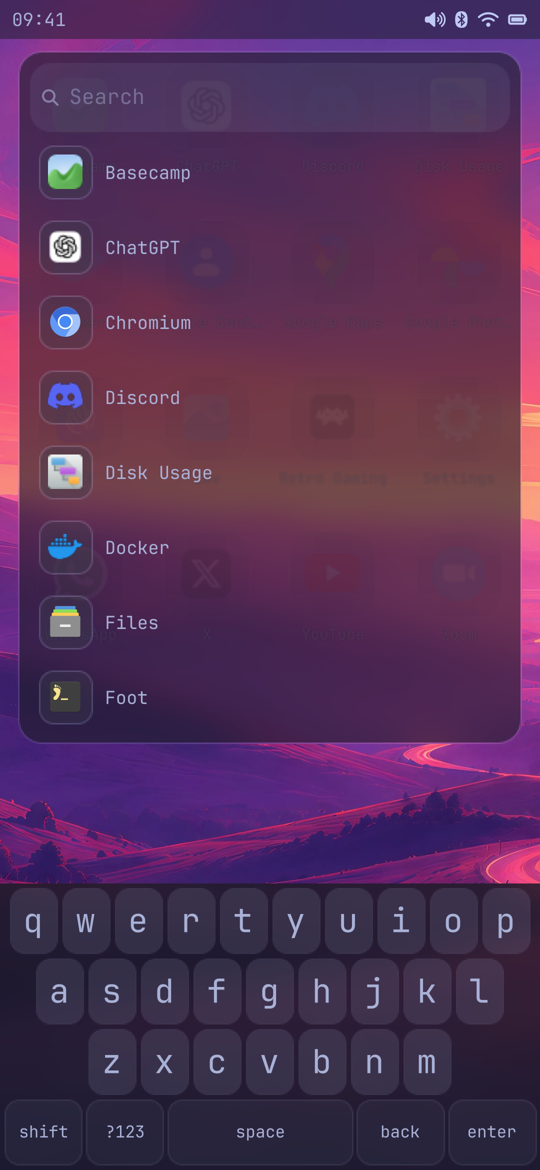
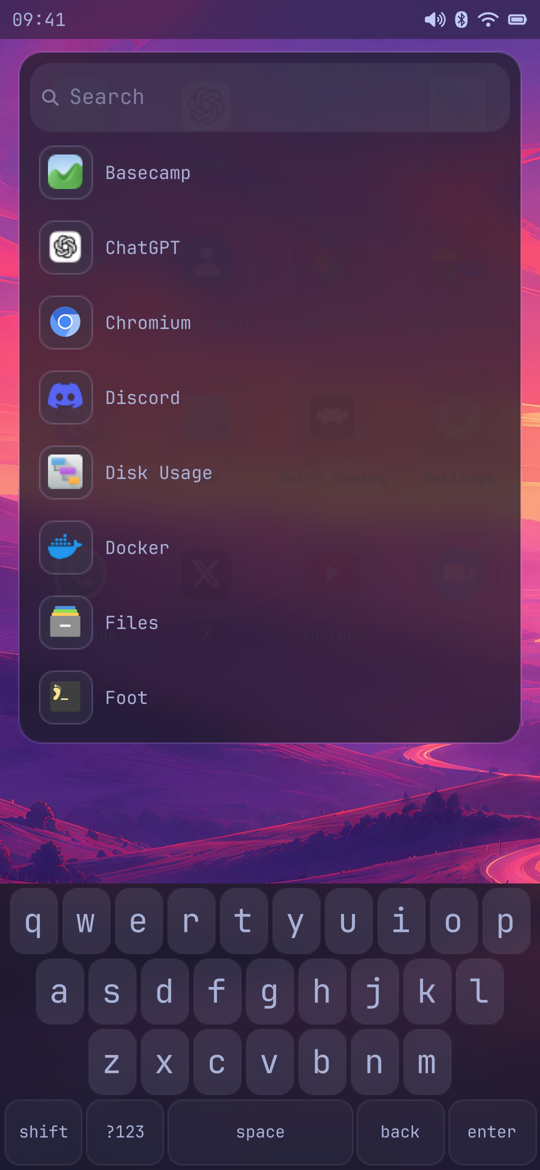
Search: exclusive keyboard focus so injected keys reach the field; closes when a window opens; tap the field to bring the keyboard back; results capped above the keyboard; clearer on light themes; docs
Claude-Session: https://claude.ai/code/session_01J9uck1ZWaLdYKHYACHGGK2

Changed region(s): [[0.0296, 0.1538, 0.9778, 0.5231]]

diff --git a/agent-work/plugins/phone-home/Home.qml b/agent-work/plugins/phone-home/Home.qml
@@ -205,7 +205,12 @@ Item {
   }
 
   function launch(app) {
-    if (!appLibrary || !app || launching) return
+    if (!appLibrary || !app) return
+    // A tap during the cooldown still ends the search it came from.
+    if (launching) {
+      closeSearch()
+      return
+    }
     launching = true
     launchCooldown.restart()
     appLibrary.launch(app.appId, app.label)
@@ -372,14 +377,23 @@ Item {
   // Swipe down on the home screen, as on iOS: a field at the top, the on-screen
   // keyboard up, and apps matching as you type. The keyboard is another plugin,
   // which this one may not summon through the host -- only the bar may -- but
-  // the shell's IPC answers any process, so it goes that way.
+  // the shell's IPC (omarchy-shell) is not scoped per plugin, so it goes that
+  // way.
   property bool searching: false
   property string query: ""
-  readonly property int searchResultLimit: 8
+  // As many results as fit above the on-screen keyboard, up to eight. The
+  // keyboard's height is phone-keyboard's own sum (four 44px rows and five
+  // gaps); it is another plugin, so it is restated here and must follow it.
+  readonly property int keyboardHeight: Style.space(44) * 4 + Style.spacing.xs * 5
+  readonly property int searchResultLimit: Math.max(1, Math.min(8, Math.floor(
+    (surfaceHeight - keyboardHeight - (barAtBottom ? barSpace : 0)
+      - searchSheet.anchors.topMargin - Style.spacing.lg * 3 - searchSheet.rowHeight)
+    / (searchSheet.rowHeight + Style.spacing.sm))))
   readonly property int searchPullDistance: Style.space(56)
 
-  // The library's own search and ranking, the one upstream's menu uses; an
-  // empty query lists apps in its usual order, as iOS's suggestions do.
+  // The library's own fuzzy search and ranking (AppSearch.js), the same call the
+  // grid makes with an empty query; empty, it lists apps alphabetically, as the
+  // grid does.
   readonly property var results: {
     if (!searching || !appLibrary) return []
     var rows = appLibrary.sortedEntries(query)
@@ -392,11 +406,25 @@ Item {
     return out
   }
 
+  // A window opening over the home screen -- from anywhere, not just a result
+  // tapped here -- ends the search: the keyboard and the field's hold on the
+  // keys belong to what is now in front.
+  Connections {
+    target: ToplevelManager
+    function onActiveToplevelChanged() {
+      if (ToplevelManager.activeToplevel) root.closeSearch()
+    }
+  }
+
+  function summonKeyboard() {
+    Quickshell.execDetached(["omarchy-shell", "shell", "summon", "dev.omarchyphone.keyboard"])
+  }
+
   function openSearch() {
     if (searching) return
     query = ""
     searching = true
-    Quickshell.execDetached(["omarchy-shell", "shell", "summon", "dev.omarchyphone.keyboard"])
+    summonKeyboard()
   }
 
   function closeSearch() {
@@ -416,8 +444,10 @@ Item {
     WlrLayershell.layer: WlrLayer.Bottom
     // Keyboard focus only while searching, so the keys the on-screen keyboard
     // injects land in the search field; the rest of the time the home screen
-    // must never take keys from whatever is focused.
-    WlrLayershell.keyboardFocus: root.searching ? WlrKeyboardFocus.OnDemand : WlrKeyboardFocus.None
+    // must never take keys from whatever is focused. Exclusive, not OnDemand:
+    // Hyprland hands focus over at once only on a switch to Exclusive, and
+    // OnDemand would wait for a tap that the swipe opening search was not.
+    WlrLayershell.keyboardFocus: root.searching ? WlrKeyboardFocus.Exclusive : WlrKeyboardFocus.None
 
     // Ignore rather than reserve: this is the backdrop windows tile over, and
     // it must neither push them aside nor be pushed by the bar. The bar's strip
@@ -607,7 +637,7 @@ Item {
       width: Math.min(parent.width - root.pagePadding * 2, Style.space(480))
       height: searchColumn.implicitHeight + Style.spacing.lg * 2
       radius: root.tileRadius
-      color: Util.alpha(Color.background, 0.6)
+      color: Util.alpha(Color.background, 0.72)
       border.width: Math.max(1, Style.space(1))
       border.color: Util.alpha(Color.foreground, 0.18)
 
@@ -653,6 +683,15 @@ Item {
             font.pixelSize: Style.font.title
             clip: true
             onTextChanged: root.query = text
+
+            // The keyboard can be put away from its own bar toggle; a tap on
+            // the field brings it back, as on iOS.
+            TapHandler {
+              onTapped: {
+                searchInput.forceActiveFocus()
+                root.summonKeyboard()
+              }
+            }
             // Return opens the first match, as a search field's go key does.
             onAccepted: if (root.results.length > 0) root.launch(root.results[0])
 
@@ -661,7 +700,7 @@ Item {
               verticalAlignment: Text.AlignVCenter
               visible: searchInput.text.length === 0
               text: "Search"
-              color: Util.alpha(Color.foreground, 0.45)
+              color: Util.alpha(Color.foreground, 0.6)
               font: searchInput.font
             }
           }

diff --git a/agent-work/tools/preview/stubs/Quickshell/Wayland/ToplevelManager.qml b/agent-work/tools/preview/stubs/Quickshell/Wayland/ToplevelManager.qml
@@ -1,0 +1,4 @@
+pragma Singleton
+import QtQuick
+// No windows are ever active in the preview.
+QtObject { property var activeToplevel: null }

diff --git a/agent-work/README.md b/agent-work/README.md
@@ -16,7 +16,7 @@ current Samsung.
 ## The look
 
 iOS's layout -- pages of apps, a dock, page dots, a control centre that drops
-from the top -- with every app on the same frosted rounded-square tile, and
+from the top, a search that drops from the home screen -- with every app on the same frosted rounded-square tile, and
 Omarchy's see-through surfaces over a blur instead of Apple's liquid glass.
 It follows the active Omarchy theme, light or dark. On an unfolded foldable
 (shortest side 600 logical px or more) the home screen opens as two pages side
@@ -32,7 +32,8 @@ plugins/         shell plugins, installed to ~/.config/omarchy/plugins
                      home indicator over apps: home; swipe up and hold: app
                      switcher; down from the top: control centre); hosts
                      Omarchy's own widgets and panels
-  phone-home         home screen and dock, under every window
+  phone-home         home screen and dock, under every window (swipe down
+                     on it: search apps)
   phone-keyboard     on-screen keyboard        (bar toggle)
 bin/             omarchy-phone-* tools
 install/         device bring-up fragments

diff --git a/agent-work/PROGRESS.md b/agent-work/PROGRESS.md
@@ -11,6 +11,10 @@ hour while work is going on. Newest entry first.
 - **Fix: the symbols layer never appeared.** The check read `layer` (every QML
   item's built-in layer-effects object, never `"symbols"`); it now reads
   `keyLayer`.
+- **Search**: swipe down on the home screen for a search field at the top,
+  with the on-screen keyboard up. Up to 8 apps match as you type, each on the
+  same tile as the grid. Tap a result, or press enter for the first one; tap
+  outside the field to close it.
 - **Home indicator**: the iOS pill at the bottom edge, shown over apps only
   (not on the home screen), marking where the swipe home starts.
 - **App switcher**: swipe up from the bottom edge and hold still for a moment;
@@ -127,8 +131,8 @@ phone. See the next entry for the opt-in lock.
 
 - **Nothing has run on a real phone.** The renders come from an offscreen
   harness with Quickshell stubbed out, not from the real shell.
-- **Missing iOS pieces:** a lock screen with its own keypad, notifications,
-  and search.
+- **Missing iOS pieces:** a lock screen with its own keypad, and
+  notifications.
 
 ## Can it be flashed onto the phones asked for?
 

diff --git a/agent-work/NOTES.md b/agent-work/NOTES.md
@@ -173,6 +173,13 @@ Both are newer than the first version of this port, and both broke it silently:
   `bar`. A gesture service or a quick-settings overlay that opens other
   plugins' surfaces gets `false` back and nothing happens. So the edge
   gestures and the control centre are part of the bar.
+  The shell's IPC is not scoped this way: `IpcHandler { target: "shell" }`
+  `summon`/`hide`/`toggle` call `shell.summon` directly, so any process of the
+  user's -- a plugin included, via `Quickshell.execDetached(["omarchy-shell",
+  "shell", "summon", id])` -- can open another plugin. The home screen brings
+  up the keyboard for search this way, as the keyboard's bar widget already
+  does. The plugin must still be enabled, and each call starts a process. A
+  later host change could close this.
 - **Only plugins of kind `menu` get an app library.** `createScopedPluginShell`
   sets `appLibrary` to null for everything else, so an overlay launcher lists
   nothing. The home screen declares `["overlay", "menu"]`: the host loads it as
